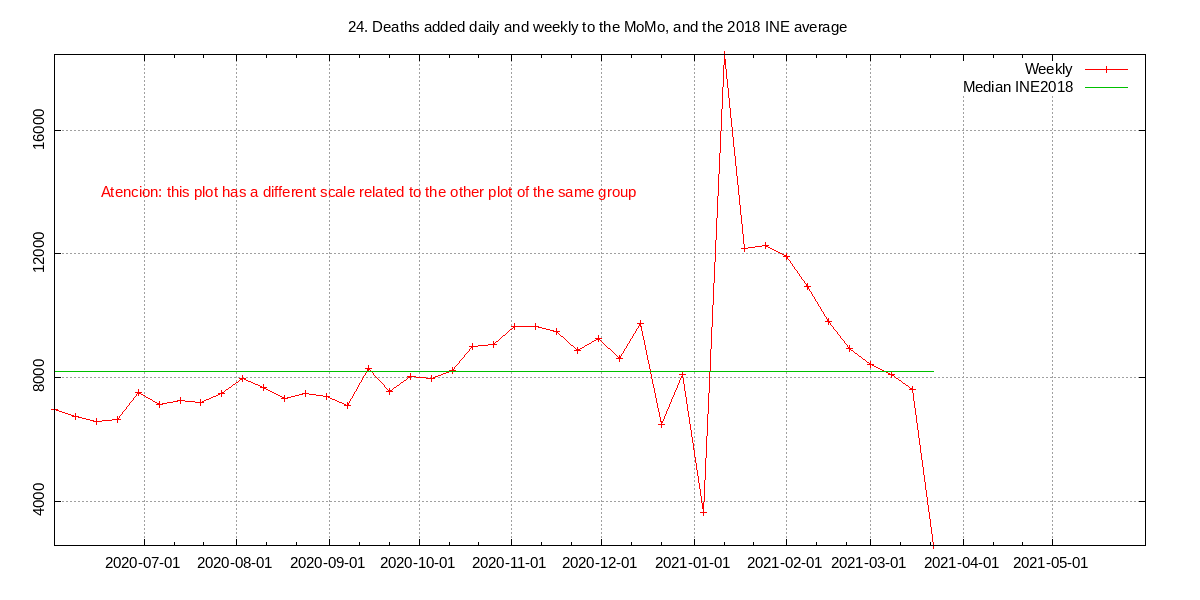
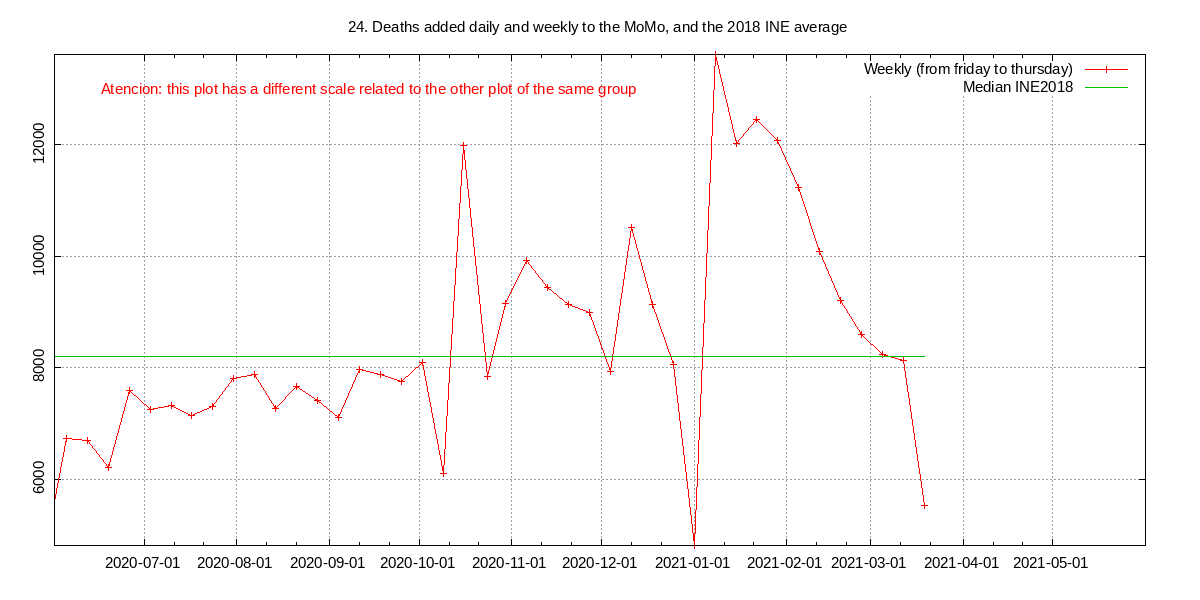
Modificar que la setmana computi de divendres a dijous al plot24

diff --git a/php/plot24.php b/php/plot24.php
@@ -31,7 +31,7 @@ if(!file_exists("output/plot24${lang}1.png")) {
 	}
 	$matrix2=array();
 	foreach($matrix1 as $key=>$val) {
-		$week=date("o-W",strtotime($val[0]));
+		$week=date("o-W",strtotime($val[0])+86400*3); // PER COMENÇAR LA SETMANA EN DIVENDRES
 		if(!isset($matrix2[$week])) $matrix2[$week]=array($val[0],0);
 		$matrix2[$week][1]+=$val[1];
 	}
@@ -73,9 +73,9 @@ if(!file_exists("output/plot24${lang}1.png")) {
 		"set output 'output/plot24${lang}1.png'",
 		"set label 1 \"".$textos["plot24"]["escala"][$lang]."\" at '2020-09-15',7000 c tc lt 1",
 		"plot 'middle/plot24${lang}1.csv' u 1:2 w l ti col, '' u 1:3 w l ti col",
-		"set ytics 0,4000,20000",
+		"set ytics 0,2000,20000",
 		"set output 'output/plot24${lang}2.png'",
-		"set label 1 \"".$textos["plot24"]["escala"][$lang]."\" at '2020-09-15',14000 c tc lt 1",
+		"set label 1 \"".$textos["plot24"]["escala"][$lang]."\" at '2020-09-15',13000 c tc lt 1",
 		"plot 'middle/plot24${lang}2.csv' u 1:2 w lp ti col, '' u 1:3 w l ti col",
 	))."\n";
 	file_put_contents("middle/plot24${lang}.gnu",$gnuplot);

diff --git a/php/langs.php b/php/langs.php
@@ -367,9 +367,9 @@ $textos=array(
 			"en"=>"Daily",
 		),
 		"semanal"=>array(
-			"ca"=>"Semanalment",
-			"es"=>"Semanalmente",
-			"en"=>"Weekly",
+			"ca"=>"Semanalment (de divendres a dijous)",
+			"es"=>"Semanalmente (de viernes a jueves)",
+			"en"=>"Weekly (from friday to thursday)",
 		),
 		"escala"=>array(
 			"ca"=>"Atenció: aquesta gràfica te l'escala diferent que l'altre gràfica del mateix grup",
